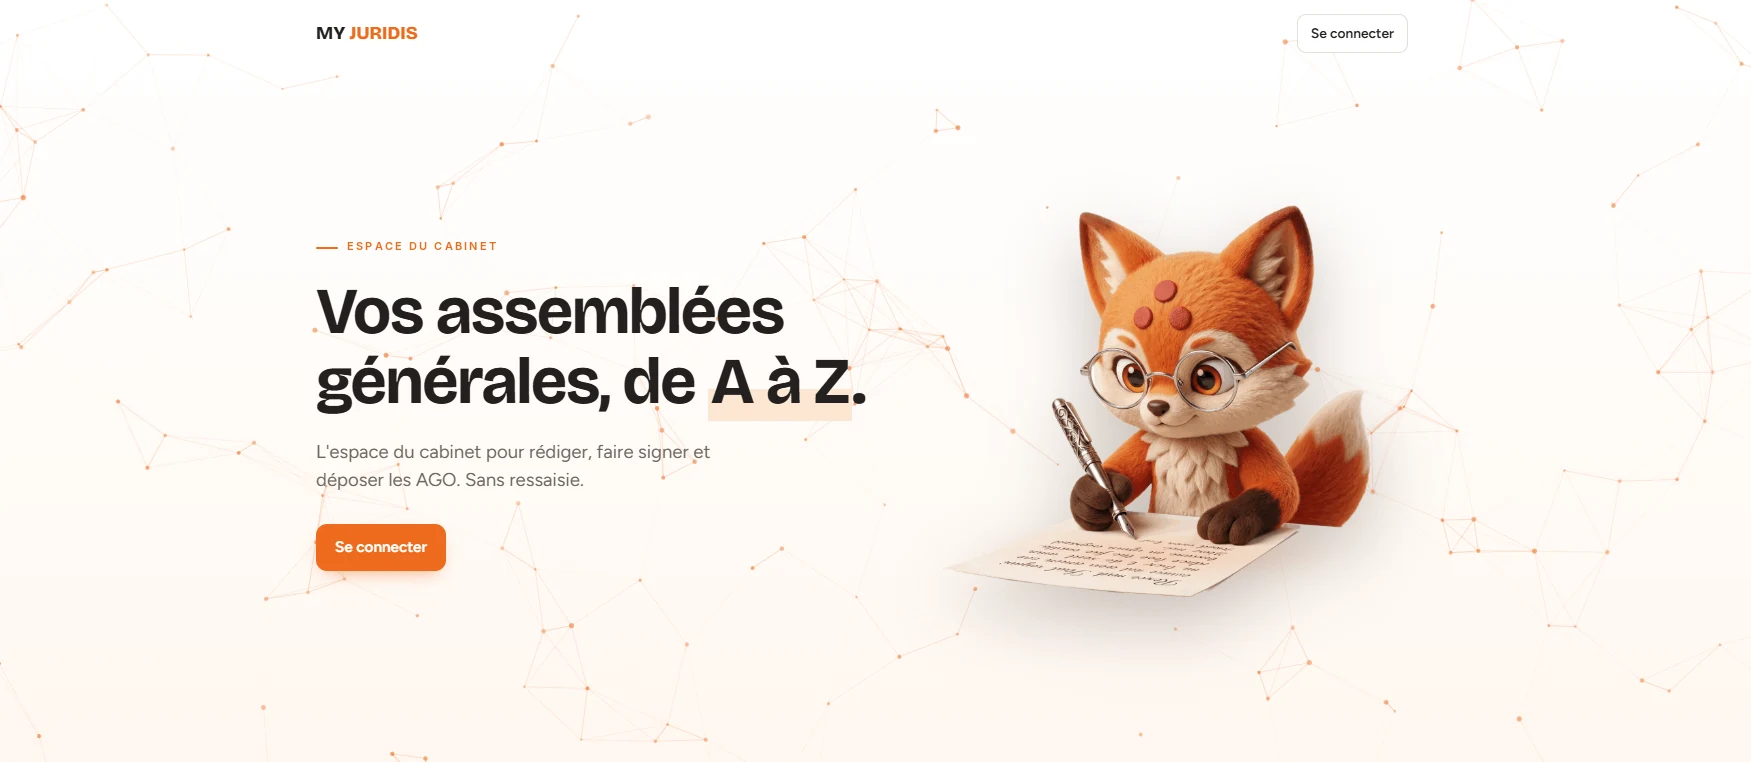
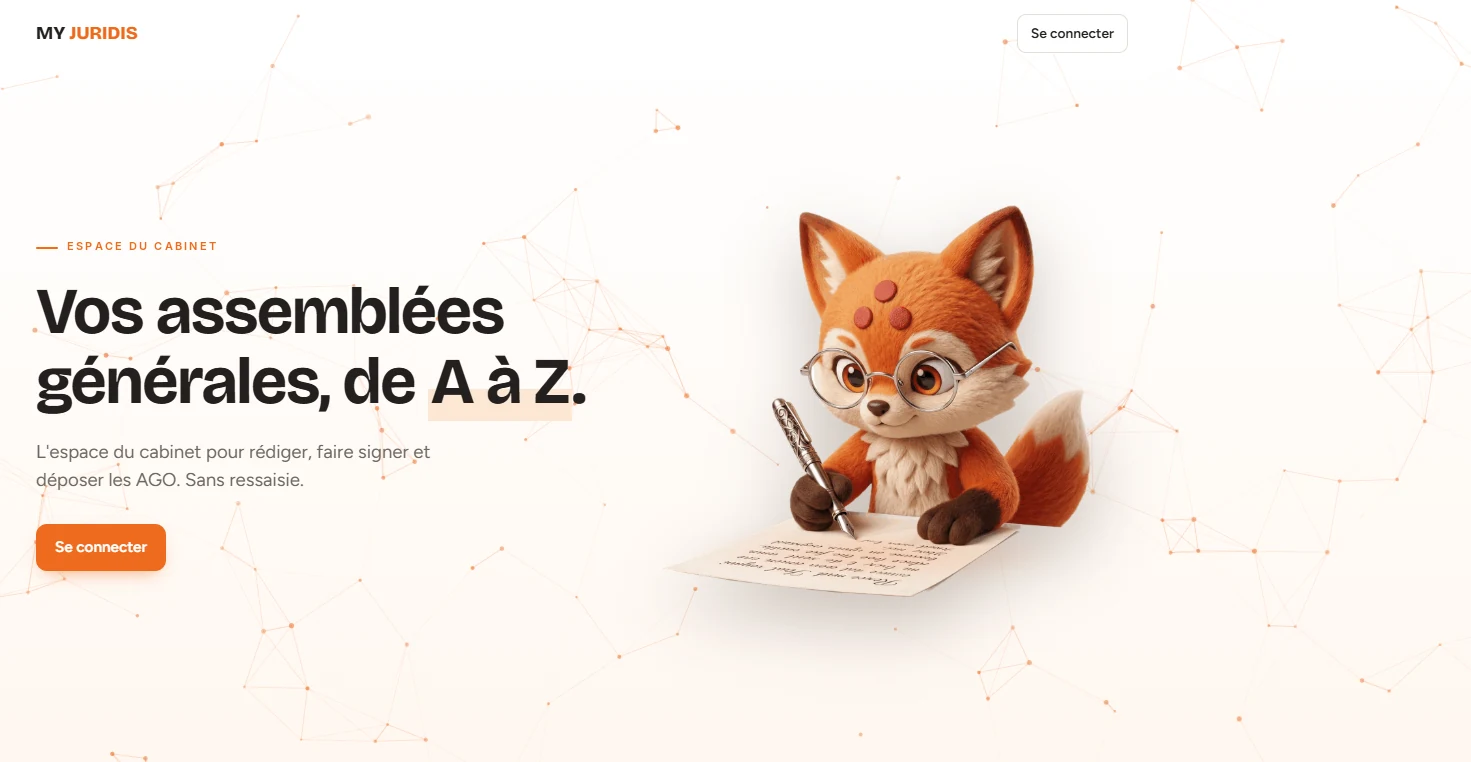
MY JURIDIS : recadrage fourni, Greffy visible sur la carte
Claude-Session: https://claude.ai/code/session_01XcFTDSAHJ8ekT4XmkHDHx3

diff --git a/projets/my-juridis.html b/projets/my-juridis.html
@@ -41,7 +41,7 @@
 <div class="cover" data-reveal>
     <figure class="cover__fig">
       <button class="zoom" type="button" data-cursor="Agrandir" aria-label="Agrandir la capture">
-        <img src="../assets/juridis-accueil.webp" width="1751" height="762" alt="Écran d'accueil de MY JURIDIS, avec Greffy, la mascotte de l'outil." loading="eager" decoding="async">
+        <img src="../assets/juridis-accueil.webp" width="1471" height="762" alt="Écran d'accueil de MY JURIDIS, avec Greffy, la mascotte de l'outil." loading="eager" decoding="async">
       </button>
       <figcaption>Écran d'accueil de MY JURIDIS, avec Greffy, la mascotte de l'outil.</figcaption>
     </figure>

diff --git a/assets/style.css b/assets/style.css
@@ -419,7 +419,7 @@ sup{font-family:var(--body);font-weight:500;font-size:.2em;letter-spacing:0;vert
 .tile{position:relative;display:block;aspect-ratio:1/1.08;border-radius:10px;overflow:hidden;isolation:isolate}
 .tile--shot{background:var(--pastel)}
 .tile--shot img{
-  position:absolute;left:12%;top:14%;width:auto;height:86%;max-width:none;border-radius:8px 0 0 0;
+  position:absolute;left:var(--x,12%);top:14%;width:auto;height:86%;max-width:none;border-radius:8px 0 0 0;
   box-shadow:0 1.25rem 2.5rem -1rem rgba(27,46,36,.45);transition:transform .8s var(--ease);transform-origin:0 0;
 }
 .tile--forest{background:var(--forest);color:var(--white)}

diff --git a/projets.html b/projets.html
@@ -53,7 +53,7 @@
       <li class="pcard">
         <a href="projets/my-juridis.html" data-cursor="Voir">
           <span class="pcard__num">02</span>
-          <span class="tile tile--shot"><img src="assets/juridis-vignette.webp" width="871" height="570" alt="" loading="lazy" decoding="async"></span>
+          <span class="tile tile--shot" style="--x:-52%"><img src="assets/juridis-accueil.webp" width="1471" height="762" alt="" loading="lazy" decoding="async"></span>
           <span class="pcard__title">MY JURIDIS</span>
           <span class="pcard__meta">Outil juridique / Prototype en cours</span>
         </a>
